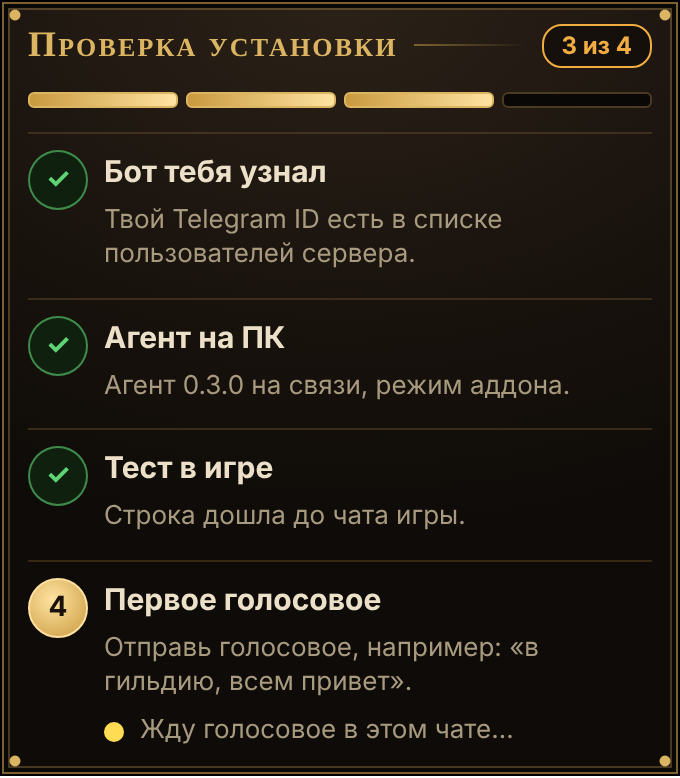
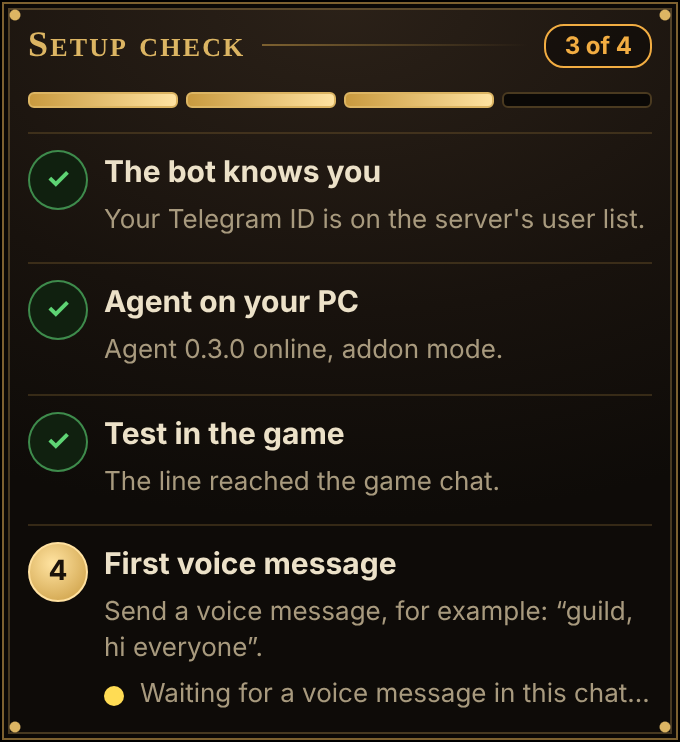
Docs and screenshots for the five languages and the new window copy
- Screenshots re-rendered in English. render.py now takes the UI words from
  the agent and server locale tables (VF_LANG picks the language) and has
  English and Russian sample messages.
- docs/agent.md: Mode step, Toggle/Hold, Detect automatically, tooltips,
  a Language section (config.toml `language`, title bar and Settings → App).
- docs/telegram-bot.md: /language (/lang), language on the panel.
- docs/addon.md: texts follow the WoW client language.
- docs/server.md: VF_STT_LANGUAGE and VF_STT_PROMPT described without
  naming a default.
- README.md: languages line; setup step names.

Claude-Session: https://claude.ai/code/session_016zcH5UETjrm3nH7LAf7RxM

diff --git a/docs/images/render.py b/docs/images/render.py
@@ -7,7 +7,9 @@ Telegram is needed, and the pictures always match the current UI.
     uv run --no-project --python 3.13 --with playwright playwright install chromium   # once
     uv run --no-project --python 3.13 --with playwright python docs/images/render.py
 
-Set VF_CHROMIUM to use a Chromium binary that is already installed.
+Set VF_CHROMIUM to use a Chromium binary that is already installed, and VF_LANG to render
+another language (en, ru, de, es, fr; default en). The UI words come from the same
+locales/<lang>.json tables the app and the bot use; only the sample messages below are ours.
 """
 
 import json
@@ -21,13 +23,49 @@ from playwright.sync_api import Page, sync_playwright
 HERE = Path(__file__).resolve().parent
 ROOT = HERE.parents[1]
 AGENT_PAGE = ROOT / "agent" / "vf_agent" / "ui" / "index.html"
+AGENT_LOCALES = ROOT / "agent" / "vf_agent" / "ui" / "locales"
 WIDGETS = ROOT / "server" / "vf_server" / "html"
+SERVER_LOCALES = ROOT / "server" / "vf_server" / "locales"
+
+SOURCE = "en"
+LANGUAGES = {"en": "English", "ru": "Русский", "de": "Deutsch", "es": "Español", "fr": "Français"}
+LANG = os.environ.get("VF_LANG", SOURCE)
 
 NOW = datetime(2026, 11, 11, 21, 30, tzinfo=UTC)
 T = NOW.timestamp()
 SCALE = 2
 WINDOW = {"width": 480, "height": 720}  # gui/app.py WIDTH, HEIGHT
 WIDGET_WIDTH = 340  # widgets.py WIDGET_WIDTH
+
+
+def strings(folder: Path, lang: str) -> dict[str, str]:
+    """Like i18n.strings in the agent and the server: English, overlaid with `lang`."""
+    table = json.loads((folder / f"{SOURCE}.json").read_text(encoding="utf-8"))
+    if lang != SOURCE:
+        table |= json.loads((folder / f"{lang}.json").read_text(encoding="utf-8"))
+    return table
+
+
+# Sample messages: (spoken phrase, channel, target, text in chat). Names are made up.
+SAMPLES = {
+    "en": {
+        "names": ["Arthorn", "Liana", "Morwen"],
+        "party": ("party boss in one minute", "Boss in 1 minute"),
+        "whisper": ("whisper arthorn where are we meeting", "Where are we meeting?"),
+        "guild": ("tell the guild i'll be back in five minutes", "Back in 5 minutes"),
+        "skip": "wait hold on a second",
+        "trade": ("trade selling copper ore", "Selling copper ore"),
+    },
+    "ru": {
+        "names": ["Арторн", "Лиана", "Морвен"],
+        "party": ("в пати иду на босса через минуту", "Иду на босса через минуту"),
+        "whisper": ("шепни арторну где встречаемся", "Где встречаемся?"),
+        "guild": ("скажи в гильдию что я отойду на пять минут", "Отойду на 5 минут"),
+        "skip": "так подожди я сейчас",
+        "trade": ("в трейд продам медную руду", "Продам медную руду"),
+    },
+}
+SAMPLE = SAMPLES.get(LANG, SAMPLES[SOURCE])
 
 # --------------------------------------------------------------------------- the agent
 
@@ -45,6 +83,7 @@ CONFIG = {
     "connect_on_start": True,
     "close_to_tray": True,
     "autostart": False,
+    "language": LANG,
     "ptt_enabled": True,
     "ptt_button": "rightstick",
     "ptt_mode": "toggle",
@@ -53,13 +92,15 @@ CONFIG = {
     "ptt_sounds": True,
 }
 
+AGENT_STRINGS = strings(AGENT_LOCALES, LANG)
 PAD_BUTTONS = [
-    {"name": "rightstick", "xbox": "Правый стик (RS)", "playstation": "Правый стик (R3)"},
-    {"name": "leftstick", "xbox": "Левый стик (LS)", "playstation": "Левый стик (L3)"},
+    {"name": name, "xbox": AGENT_STRINGS[f"padbtn.{name}"],
+     "playstation": AGENT_STRINGS.get(f"padbtn.{name}.ps") or AGENT_STRINGS[f"padbtn.{name}"]}
+    for name in ("rightstick", "leftstick")
 ]
 
 PAD = {"connected": True, "name": "Xbox Wireless Controller", "playstation": False, "error": ""}
-MICS = ["Headset Microphone (Xbox Wireless Headset)", "Микрофон (Realtek High Definition Audio)"]
+MICS = ["Headset Microphone (Xbox Wireless Headset)", "Microphone (Realtek High Definition Audio)"]
 
 
 def voice(at: float, channel: str, target: str, label: str, text: str, transcript: str, status: str = "ok") -> dict:
@@ -72,24 +113,29 @@ def typed(at: float, channel: str, target: str, text: str, status: str = "ok") -
             "detail": "", "at": at, "voice_id": ""}
 
 
-# Newest first, as the agent keeps them.
+# Newest first, as the agent keeps them. The page draws the channel names itself.
 HISTORY = [
-    voice(T - 40, "group", "", "Группа", "Иду на босса через минуту", "в пати иду на босса через минуту"),
-    voice(T - 260, "whisper", "Арторн", "Шёпот: Арторн", "Где встречаемся?", "шепни арторну где встречаемся"),
-    typed(T - 610, "guild", "", "Отойду на 5 минут"),
-    voice(T - 900, "", "", "", "", "так подожди я сейчас", status="skip"),
-    voice(T - 1500, "channel", "2", "Канал 2", "Продам медную руду", "в трейд продам медную руду"),
+    voice(T - 40, "group", "", "", SAMPLE["party"][1], SAMPLE["party"][0]),
+    voice(T - 260, "whisper", SAMPLE["names"][0], "", SAMPLE["whisper"][1], SAMPLE["whisper"][0]),
+    typed(T - 610, "guild", "", SAMPLE["guild"][1]),
+    voice(T - 900, "", "", "", "", SAMPLE["skip"], status="skip"),
+    voice(T - 1500, "channel", "2", "", SAMPLE["trade"][1], SAMPLE["trade"][0]),
 ]
 
 
 def agent_state(first_run: bool) -> dict:
     return {
+        "language": LANG,
+        "lang": LANG,
+        "system_lang": LANG,
+        "strings": AGENT_STRINGS,
+        "languages": [{"code": code, "name": name} for code, name in LANGUAGES.items()],
         "version": "0.3.0",
         "configured": not first_run,
         "first_run": first_run,
         "config": CONFIG,
         "errors": {},
-        "defaults": CONFIG | {"server_url": "", "token": ""},
+        "defaults": CONFIG | {"server_url": "", "token": "", "language": ""},
         "config_path": r"C:\Users\Player\AppData\Roaming\VoiceForever\config.toml",
         "seq": 1,
         "status": ({"state": "disconnected", "detail": "", "attempt": 0, "retry_at": None, "since": None}
@@ -111,6 +157,7 @@ FAKE_API = """
   const impl = {
     get_state: async () => state,
     save_config: async (values) => ({ ok: true, errors: {}, config: values, reconnecting: true }),
+    check_config: async () => ({}),
     list_mics: async () => ({ mics, error: '' }),
     mic_test: async () => ({ error: '' }),
     send_test: async () => ({ status: 'ok', detail: '' }),
@@ -175,14 +222,32 @@ window.TelegramWidget = {
 """
 
 CARD_ASK = {
-    "i": "c1", "s": "ask", "c": "whisper", "t": "Арторн", "x": "Где встречаемся?",
-    "o": "шепни арторну где встречаемся", "n": ["Арторн", "Лиана", "Морвен"], "a": 0, "e": "",
+    "i": "c1", "s": "ask", "c": "whisper", "t": SAMPLE["names"][0], "x": SAMPLE["whisper"][1],
+    "o": SAMPLE["whisper"][0], "n": SAMPLE["names"], "a": 0, "e": "",
 }
 PANEL = {
     "on": 1, "v": "0.3.0", "md": "addon", "since": T - 3723, "c": "group", "cf": 0,
-    "st": "off", "cs": "", "tr": 1, "n": "Арторн, Лиана",
+    "st": "off", "cs": "", "tr": 1, "n": ", ".join(SAMPLE["names"][:2]), "lg": LANG,
 }
 SETUP = {"on": 1, "v": "0.3.0", "md": "addon", "t": "ok", "e": "", "vc": "", "dl": ""}
+
+
+# widgets.py WIDGET_STRINGS: which strings each widget gets.
+WIDGET_STRINGS = {"card": ("card.", "chan."), "panel": ("panel.", "chan.", "mode."), "setup": ("setup.", "mode.")}
+
+
+def widget_html(name: str) -> str:
+    """Like widgets.load_html: the widget's HTML with its strings in LANG."""
+    html = (WIDGETS / f"{name}.html").read_text(encoding="utf-8")
+    table: dict[str, object] = {
+        key.removeprefix(f"{name}."): text
+        for key, text in strings(SERVER_LOCALES, LANG).items()
+        if key.startswith(WIDGET_STRINGS[name])
+    }
+    if name == "panel":
+        table["langs"] = [[code, title] for code, title in LANGUAGES.items()]
+    table_json = json.dumps(table, ensure_ascii=False, separators=(",", ":")).replace("</", "<\\/")
+    return html.replace("L=/*L*/{}", "L=" + table_json, 1)
 
 
 def widget(page: Page, name: str, data: dict) -> None:
@@ -190,7 +255,7 @@ def widget(page: Page, name: str, data: dict) -> None:
     errors: list[str] = []
     page.on("pageerror", lambda e: errors.append(str(e)))
     stub = FAKE_WIDGET % json.dumps(json.dumps(data, ensure_ascii=False))
-    html = (WIDGETS / f"{name}.html").read_text(encoding="utf-8")
+    html = widget_html(name)
     page.set_content(f"<!doctype html><meta charset='utf-8'><script>{stub}</script>{html}")
     page.wait_for_timeout(200)
     if errors:

diff --git a/docs/agent.md b/docs/agent.md
@@ -17,7 +17,7 @@ The window needs the Microsoft Edge WebView2 Runtime. Windows 11 already has it,
 On first launch a four-step setup opens:
 
 1. **Server**: the server address `wss://<domain>/ws` and the agent token (the part after the colon for your Telegram ID in `VF_USERS`). The agent checks the connection right away.
-2. **Input**: with the VoiceForever addon (recommended) or plain chat.
+2. **Mode**: with the VoiceForever addon (recommended) or plain chat.
 3. **Voice**: the microphone, with a level meter, and the gamepad button that starts recording.
 4. **Check**: the in-game check of the button (see below) and a test phrase.
 
@@ -26,7 +26,7 @@ On first launch a four-step setup opens:
 After that the window has two tabs:
 
 - **Status**: whether the agent is connected, with disconnect, reconnect and connect buttons; whether the game window is active; the gamepad and recording state; the last messages, each marked with whether it reached the game. "Test in /say" types a test line.
-- **Settings**: everything in `config.toml` (server, token, input mode, addon hotkey, voice, game window, typing delays). A button finds the WoW window and process for you. If you change the address, the token or the mode, the agent reconnects by itself.
+- **Settings**: everything in `config.toml` (server, token, input mode, addon key, voice, game window, typing delays, language). The ⓘ icon next to a setting explains it. **Detect automatically** finds the WoW window and process for you. If you change the address, the token or the mode, the agent reconnects by itself.
 
 ![The settings tab](images/agent-settings.png)
 
@@ -34,8 +34,8 @@ After that the window has two tabs:
 
 Xbox and DualSense controllers work, over USB or Bluetooth, and the agent sees them even when the game window is in the background. By default clicking the right stick starts recording:
 
-- Toggle (`ptt_mode = "toggle"`): press, speak, press again. A recording never runs longer than `max_record_s` (30 s); then it is sent by itself.
-- Hold (`ptt_mode = "hold"`): you speak while you hold the button.
+- **Toggle** (`ptt_mode = "toggle"`): press, speak, press again. A recording never runs longer than `max_record_s` (30 s); then it is sent by itself.
+- **Hold** (`ptt_mode = "hold"`): you speak while you hold the button.
 
 Recording starts only while the WoW window is active. Anything shorter than 0.3 s counts as an accidental press and goes nowhere. The agent beeps at the start and the end (`ptt_sounds`), the tray icon turns red while recording, and the addon shows a badge in the game: "recording", then "recognising", then where the text went. You can drag the badge with the mouse.
 
@@ -44,6 +44,10 @@ The addon takes the button over: in WoW Forever the right stick places pings, an
 The server recognises the speech the same way as Telegram voice messages, and Claude picks the channel the same way. The server accepts recordings up to `VF_MAX_VOICE_S` (60 s).
 
 The agent reads the gamepad and the microphone through [SDL3](https://libsdl.org) (zlib license); `SDL3.dll` is already inside the exe. Gamepad voice works in the windowed app only; `--headless` does not enable it.
+
+## Language
+
+The window, the tray and the messages speak English, Russian, German, Spanish and French. The agent starts in the Windows display language (English if it is none of these) and you can switch it with the globe button in the title bar or in Settings → App. In `config.toml` it is `language = ""` (follow Windows) or one of `en`, `ru`, `de`, `es`, `fr`.
 
 ## Tray
 

diff --git a/docs/telegram-bot.md b/docs/telegram-bot.md
@@ -7,12 +7,13 @@ Send the bot a voice message and it types it into the game chat through the Wind
 | Command | What it does |
 |---|---|
 | `/status` | whether the Windows app is connected, and your current settings |
-| `/channel group\|guild\|say\|raid` | the default channel, used when the phrase names none |
+| `/channel group\|guild\|say\|raid` | the default channel, used when the phrase names none (channel names in any of the bot's languages work too) |
 | `/confirm on\|off` | show the message with buttons before sending it |
 | `/style like an orc shaman` | rewrite messages in a style (or "translate to English"); `/style off` turns it off |
 | `/names Arthorn, Liana` | character names you mention often (helps recognition) |
-| `/panel` | pin the control panel: app connected or not, channel, confirmation, style |
+| `/panel` | pin the control panel: app connected or not, channel, confirmation, style, language |
 | `/widgets on\|off` | cards and the panel, or plain text buttons |
+| `/language` (or `/lang`) | the bot's language: English, Russian, German, Spanish or French |
 
 Without a channel in the phrase, Claude continues the conversation in the channel you used in the last 5 minutes, otherwise it takes the default channel.
 
@@ -21,7 +22,7 @@ Without a channel in the phrase, Claude continues the conversation in the channe
 The bot answers with HTML widgets right in the chat (Bot API 10.4, so far only in a private chat with the bot):
 
 - **Message card** under every voice message: the phrase in the game's channel colour, a choice of channel and of the name for a whisper, and the status "sending", "in the game" or "not sent" with a retry button. To correct the text, reply to the card with voice or text.
-- **Control panel** (`/panel`) is pinned at the top of the chat and updates itself when the app connects or disconnects.
+- **Control panel** (`/panel`) is pinned at the top of the chat and updates itself when the app connects or disconnects. It also switches the default channel, confirmation, message style and language.
 - **Setup checklist** comes on `/start`: the bot knows you, the app is connected, the test line reached the game, the first voice message.
 
 <p>
@@ -29,5 +30,7 @@ The bot answers with HTML widgets right in the chat (Bot API 10.4, so far only i
   <img src="images/telegram-panel.png" width="280" alt="Pinned control panel: app connected, default channel, confirmation, message style">
   <img src="images/telegram-setup.png" width="280" alt="Setup checklist: three of four steps done">
 </p>
+
+The bot answers in the language of your Telegram app (English if it is none of the five) until you pick one with `/language` or on the panel. The widgets follow the same choice.
 
 If your Telegram app does not show widgets, turn them off with `/widgets off`: the bot goes back to text with buttons.

diff --git a/README.md b/README.md
@@ -33,9 +33,11 @@ WoW Forever plays great on a gamepad, right up until someone asks you something 
 
 ## What you get
 
-- **A Windows app** that sits in the tray while you play. It shows whether it is connected, sees your gamepad even when the game is in the background, and lists your last messages with a mark for each one that reached the game. Setup takes four steps: server, input, voice and a check in the game.
+- **A Windows app** that sits in the tray while you play. It shows whether it is connected, sees your gamepad even when the game is in the background, and lists your last messages with a mark for each one that reached the game. Setup takes four steps: server, mode, voice and a check in the game.
 - **An in-game addon.** The chat window never opens: the addon picks party, raid or instance chat by itself, replies to the last whisper and shows a recording badge.
-- **A Telegram bot** for voice messages from your phone. Every message gets a card with its channel and delivery status, and a pinned panel holds your default channel, confirmation and message style.
+- **A Telegram bot** for voice messages from your phone. Every message gets a card with its channel and delivery status, and a pinned panel holds your default channel, confirmation, message style and language.
+
+The app, the bot and the addon speak English, Russian, German, Spanish and French, and start in the language of your Windows, Telegram app and game client.
 
 <p align="center">
   <img src="docs/images/agent-wizard-voice.png" width="300" alt="First-run setup, step 3: choosing the microphone and the gamepad button">

diff --git a/docs/server.md b/docs/server.md
@@ -119,7 +119,7 @@ Any service with an OpenAI-compatible `/audio/transcriptions` works:
 | Groq | `https://api.groq.com/openai/v1` | `whisper-large-v3-turbo` |
 | Your own server (speaches / faster-whisper) | `http://speaches:8000/v1` | `Systran/faster-whisper-large-v3` |
 
-`VF_STT_LANGUAGE` is the language players speak (`ru` by default). Set it to `en` for English, or leave it empty to let the model detect the language. `VF_STT_PROMPT` adds words that recognition often gets wrong, such as character names.
+`VF_STT_LANGUAGE` locks recognition to one language (a code such as `en` or `ru`); when it is empty, the model detects the spoken language. `VF_STT_PROMPT` is a hint with words that recognition often gets wrong, such as game slang or character names.
 
 ## Claude
 

diff --git a/docs/addon.md b/docs/addon.md
@@ -2,7 +2,7 @@
 
 The addon is an invisible input field inside the game. The Windows app presses the addon's hotkey, pastes a line and presses Enter; the addon posts it to the right channel. The chat window never opens, the addon picks party, raid or instance chat by itself and replies to the last whisper. While you record from the gamepad it shows a recording badge in the game.
 
-The addon has no network access: everything reaches it as keyboard input.
+The addon has no network access: everything reaches it as keyboard input. Its messages follow the language of your WoW client: English, Russian, German, Spanish or French (English for any other).
 
 ## Install
 
